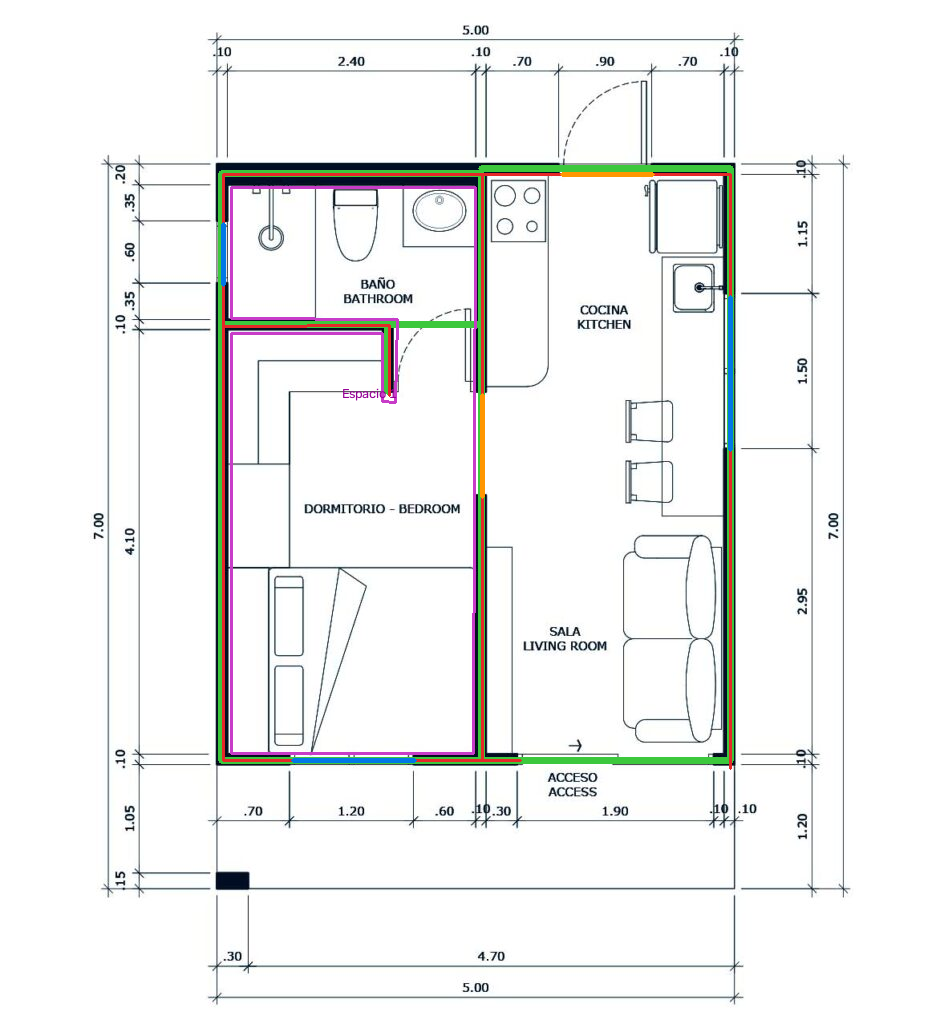
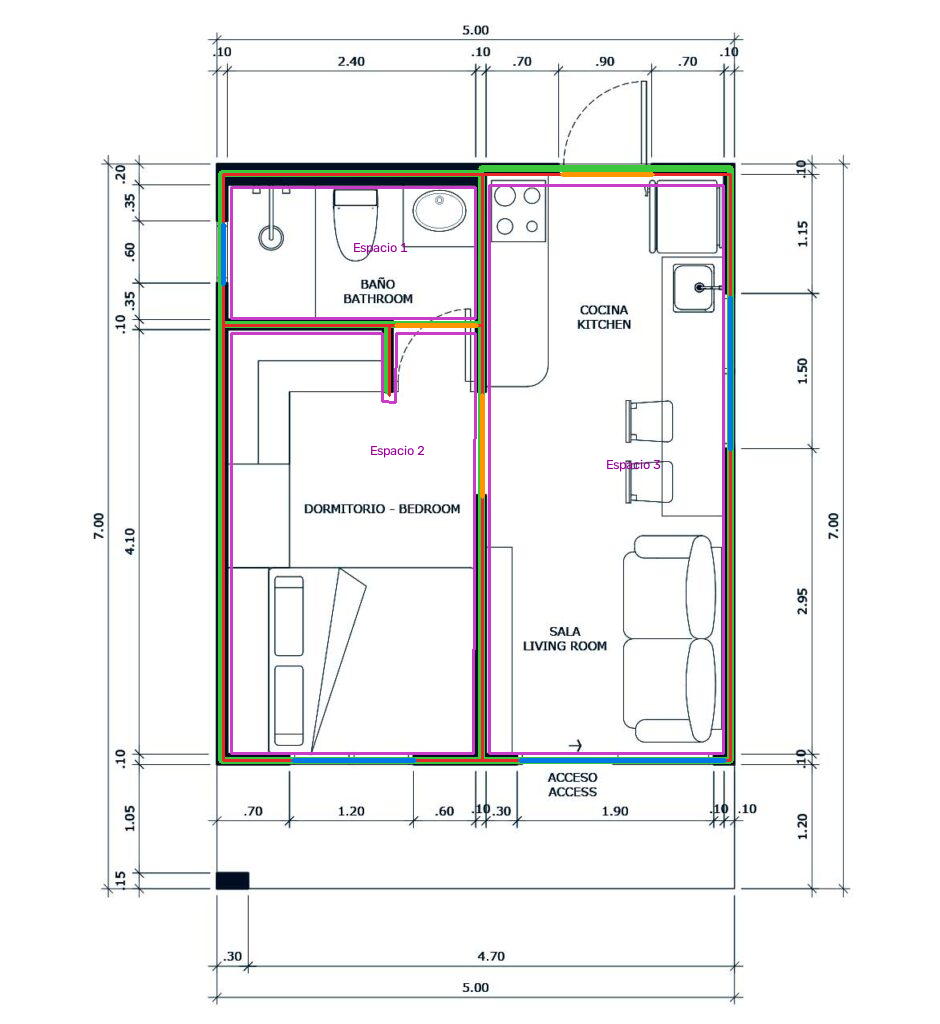
feat(detección): puertas entre tabique y muro transversal; escala de cotas al clásico
- bridge_end_gaps: un hueco desde el extremo de un muro hasta un muro transversal
  se vuelve abertura solo con evidencia en la tinta fina (arco u hoja de puerta
  de hasta 1,25 m, o línea continua de ventana/corrediza); cierra ambientes
- La CV clásica recibe la escala leída de las cotas (scale_hint) en vez de
  estimarla por el grosor: los umbrales en metros dejan de fallar
- casa1: muros F1 0,96 → 1,00; ambientes 1/3 → 3/3 (IoU 0,95); aberturas 5/7 → 7/7

diff --git a/backend/src/plano3d/infrastructure/cv/stages/openings.py b/backend/src/plano3d/infrastructure/cv/stages/openings.py
@@ -150,15 +150,176 @@ def merge_openings(segments: list[Segment], t: float, mpp: float, ink: Img) -> l
     return result
 
 
+def _ink_near(ink: Img, x: float, y: float, r: int = 2) -> bool:
+    h, w = ink.shape[:2]
+    xi, yi = round(x), round(y)
+    if not (0 <= xi < w and 0 <= yi < h):
+        return False
+    return bool(ink[max(0, yi - r) : yi + r + 1, max(0, xi - r) : xi + r + 1].any())
+
+
+def door_swing_evidence(
+    ink: Img, hinge: tuple[float, float], u: tuple[float, float], width: float
+) -> float:
+    """Cobertura (0..1) del arco de giro o de la hoja de una puerta con bisagra en ``hinge``.
+
+    ``u`` apunta de la bisagra hacia la otra jamba. La hoja abierta queda perpendicular al
+    muro (a uno u otro lado) y el arco une su punta con la otra jamba: se muestrean ambos y
+    se devuelve la mejor cobertura. Los arcos punteados de muchos planos dan ~0,4-0,6.
+    """
+    best = 0.0
+    for side in (1.0, -1.0):
+        n = (-u[1] * side, u[0] * side)
+        arc = 0
+        steps = 24
+        for k in range(1, steps):
+            a = math.pi / 2 * k / steps
+            px = hinge[0] + width * (u[0] * math.cos(a) + n[0] * math.sin(a))
+            py = hinge[1] + width * (u[1] * math.cos(a) + n[1] * math.sin(a))
+            arc += _ink_near(ink, px, py)
+        leaf = 0
+        for k in range(2, 12):
+            f = width * k / 12
+            leaf += _ink_near(ink, hinge[0] + n[0] * f, hinge[1] + n[1] * f, 1)
+        best = max(best, arc / (steps - 1), leaf / 10)
+    return best
+
+
+SWING_EVIDENCE = 0.4
+MAX_SWING_DOOR_M = 1.25
+WINDOW_LINE_EVIDENCE = 0.8
+
+
+def window_line_evidence(
+    ink: Img, a: tuple[float, float], b: tuple[float, float], thickness: float
+) -> float:
+    """Cobertura de la mejor línea fina CONTINUA paralela al muro dentro de su banda.
+
+    Una ventana (o una corrediza) se dibuja con líneas que cruzan todo el vano; los muebles
+    junto al muro (lavamanos, inodoro, mesones) dejan tinta en la banda pero no una línea
+    continua de jamba a jamba.
+    """
+    dx, dy = b[0] - a[0], b[1] - a[1]
+    length = math.hypot(dx, dy)
+    if length < 1:
+        return 0.0
+    ux, uy = dx / length, dy / length
+    nx, ny = -uy, ux
+    steps = max(8, int(length / 2))
+    best = 0.0
+    for k in range(-4, 5):
+        off = thickness * 0.4 * k / 4
+        hits = sum(
+            _ink_near(
+                ink,
+                a[0] + ux * length * s / steps + nx * off,
+                a[1] + uy * length * s / steps + ny * off,
+                1,
+            )
+            for s in range(1, steps)
+        )
+        best = max(best, hits / (steps - 1))
+    return best
+
+
+def bridge_end_gaps(segments: list[Segment], t: float, mpp: float, ink: Img) -> list[Segment]:
+    """Huecos entre el EXTREMO de un muro y otro muro (no colineal) más adelante en su eje.
+
+    ``merge_openings`` solo ve huecos entre tramos de la misma recta. Una puerta que va de
+    la punta de un tabique hasta un muro transversal (típica de baños y closets) quedaba
+    abierta y unía dos ambientes. Aquí se prolonga el muro hasta el otro y el tramo nuevo
+    es la abertura, pero solo si la tinta lo respalda: arco u hoja de puerta, o líneas
+    finas de ventana/corrediza en la banda. Sin evidencia no se inventa nada (una esquina
+    normal también tiene un muro "más adelante").
+    """
+    min_gap = MIN_OPENING_M / mpp
+    max_gap = MAX_OPENING_M / mpp
+    out = list(segments)
+    # la evidencia (arcos, hojas, líneas de ventana) es tinta FINA: se excluyen los muros,
+    # si no la "hoja" muestreada junto a un muro transversal cae dentro de él
+    walls = np.zeros_like(ink)
+    for w in out:
+        # rectángulo exacto del muro (sin puntas redondeadas): la hoja de una puerta suele ir
+        # pegada a la cara del muro y no debe quedar tapada
+        dx, dy = w.direction
+        h = w.thickness / 2
+        quad = np.array(
+            [
+                (w.x1 - dy * h, w.y1 + dx * h),
+                (w.x2 - dy * h, w.y2 + dx * h),
+                (w.x2 + dy * h, w.y2 - dx * h),
+                (w.x1 + dy * h, w.y1 - dx * h),
+            ]
+        )
+        cv2.fillPoly(walls, [np.round(quad).astype(np.int32)], 255)
+    thin = cv2.bitwise_and(ink, cv2.bitwise_not(walls))
+    for i, s in enumerate(out):
+        for end in (0, 1):
+            ex, ey = (s.x2, s.y2) if end else (s.x1, s.y1)
+            ux, uy = s.direction if end else (-s.direction[0], -s.direction[1])
+            best: tuple[float, float, int] | None = (
+                None  # (distancia libre, avance hasta el eje, j)
+            )
+            for j, o in enumerate(out):
+                if j == i or _angle_diff(o.angle, s.angle) < 30:
+                    continue
+                # intersección del rayo con el eje del otro muro
+                ox, oy = o.direction
+                den = ux * oy - uy * ox
+                if abs(den) < 1e-6:
+                    continue
+                rx, ry = o.x1 - ex, o.y1 - ey
+                along = (rx * oy - ry * ox) / den
+                tt = (rx * uy - ry * ux) / den
+                if along <= 0 or not (-o.thickness <= tt <= o.length + o.thickness):
+                    continue
+                free = along - o.thickness / 2
+                if free < 0.5 * t:  # ya lo toca: es una unión, no un hueco
+                    best = None
+                    break
+                if min_gap <= free <= max_gap and (best is None or free < best[0]):
+                    best = (free, along, j)
+            if best is None:
+                continue
+            free, along, _ = best
+            a = (ex, ey)
+            b = (ex + ux * free, ey + uy * free)
+            kind, conf = classify_gap(ink, a, b, s.thickness)
+            swing = max(
+                door_swing_evidence(thin, a, (ux, uy), free),
+                door_swing_evidence(thin, b, (-ux, -uy), free),
+            )
+            # una puerta batiente de una hoja no pasa de ~1,25 m; un arco más grande cruza
+            # cualquier línea del plano por casualidad
+            if swing >= SWING_EVIDENCE and kind == "door" and free * mpp <= MAX_SWING_DOOR_M:
+                conf = max(conf, 0.85)
+            elif window_line_evidence(thin, a, b, s.thickness) >= WINDOW_LINE_EVIDENCE:
+                kind, conf = "window", max(conf, 0.8)
+            else:
+                continue  # sin arco, hoja ni líneas de ventana: no se inventa la abertura
+            nx, ny = ex + ux * along, ey + uy * along
+            if end:
+                ops = [*s.openings, PxOpening(s.length, free, kind, conf)]
+                out[i] = Segment(s.x1, s.y1, nx, ny, s.thickness, ops, s.confidence)
+            else:
+                shift = along
+                ops = [
+                    PxOpening(o.offset + shift, o.width, o.kind, o.confidence) for o in s.openings
+                ]
+                ops.insert(0, PxOpening(along - free, free, kind, conf))
+                out[i] = Segment(nx, ny, s.x2, s.y2, s.thickness, ops, s.confidence)
+            s = out[i]
+    return out
+
+
 class OpeningsStage(PipelineStage[CVContext]):
     key = "openings"
     title = "Detección de puertas y ventanas"
 
     def run(self, ctx: CVContext) -> CVContext:
         ink = ctx.require(ctx.ink, "ink")
-        ctx.segments = merge_openings(
-            ctx.segments, ctx.wall_thickness_px, ctx.meters_per_pixel, ink
-        )
+        segs = merge_openings(ctx.segments, ctx.wall_thickness_px, ctx.meters_per_pixel, ink)
+        ctx.segments = bridge_end_gaps(segs, ctx.wall_thickness_px, ctx.meters_per_pixel, ink)
         return ctx
 
     def metrics(self, ctx: CVContext) -> dict[str, float]:

diff --git a/backend/tests/pipeline/test_end_gaps.py b/backend/tests/pipeline/test_end_gaps.py
@@ -1,0 +1,66 @@
+"""Puertas entre el extremo de un tabique y un muro transversal (bridge_end_gaps)."""
+
+import math
+
+import cv2
+import numpy as np
+
+from plano3d.infrastructure.cv.context import Segment
+from plano3d.infrastructure.cv.stages.openings import (
+    bridge_end_gaps,
+    door_swing_evidence,
+    window_line_evidence,
+)
+
+MPP = 0.01  # 1 px = 1 cm
+
+
+def _canvas() -> np.ndarray:
+    return np.zeros((400, 400), np.uint8)
+
+
+def _walls() -> list[Segment]:
+    # muro vertical en x=300; tabique horizontal en y=200 que termina 90 cm antes
+    return [Segment(300, 50, 300, 350, 12), Segment(50, 200, 204, 200, 12)]
+
+
+def test_puerta_con_arco_se_cierra_hasta_el_muro() -> None:
+    ink = _canvas()
+    cv2.line(ink, (50, 200), (204, 200), 255, 12)
+    cv2.line(ink, (300, 50), (300, 350), 255, 12)
+    # hoja abierta desde la bisagra (en el tabique) y arco hasta el otro muro
+    cv2.line(ink, (205, 200), (205, 290), 255, 1)
+    cv2.ellipse(ink, (205, 200), (90, 90), 0, 0, 90, 255, 1)
+    out = bridge_end_gaps(_walls(), 12, MPP, ink)
+    s = out[1]
+    assert math.isclose(s.x2, 300, abs_tol=1)
+    assert len(s.openings) == 1
+    o = s.openings[0]
+    assert o.kind == "door"
+    assert 80 <= o.width <= 95
+
+
+def test_sin_evidencia_no_inventa_aberturas() -> None:
+    ink = _canvas()
+    cv2.line(ink, (50, 200), (204, 200), 255, 12)
+    cv2.line(ink, (300, 50), (300, 350), 255, 12)
+    # un mueble junto al muro: tinta cerca, pero sin arco ni línea continua
+    cv2.rectangle(ink, (230, 185), (260, 215), 255, 1)
+    out = bridge_end_gaps(_walls(), 12, MPP, ink)
+    assert math.isclose(out[1].x2, 204, abs_tol=1)
+    assert out[1].openings == []
+
+
+def test_ventana_corrediza_por_linea_continua() -> None:
+    ink = _canvas()
+    cv2.line(ink, (204, 200), (294, 200), 255, 1)  # línea de la corrediza de jamba a jamba
+    assert window_line_evidence(ink, (204, 200), (294, 200), 12) >= 0.9
+    out = bridge_end_gaps(_walls(), 12, MPP, ink)
+    assert out[1].openings[0].kind == "window"
+
+
+def test_arco_de_puerta_tiene_evidencia_alta() -> None:
+    ink = _canvas()
+    cv2.ellipse(ink, (100, 100), (80, 80), 0, 0, 90, 255, 1)
+    assert door_swing_evidence(ink, (100, 100), (1.0, 0.0), 80) >= 0.8
+    assert door_swing_evidence(_canvas(), (100, 100), (1.0, 0.0), 80) == 0.0

diff --git a/backend/src/plano3d/infrastructure/cv/raster_vector_detector.py b/backend/src/plano3d/infrastructure/cv/raster_vector_detector.py
@@ -363,7 +363,15 @@ class HybridPhotoDetector(FloorPlanDetector):
         rooms = sum(len(lv.rooms) for lv in first.model.levels)
         if rooms >= MIN_ROOMS_TO_TRUST:
             return first
-        second = await self._classic.detect(request, progress)
+        # la clásica trabaja sobre la misma imagen rectificada: si raster-vector leyó la
+        # escala de las cotas, se la pasa (umbrales en metros correctos: vanos, rejilla...)
+        hint = request
+        if first.model.scale.source == "dimensions":
+            hint = replace(
+                request,
+                scale_hint=(first.model.scale.meters_per_pixel, first.model.scale.confidence),
+            )
+        second = await self._classic.detect(hint, progress)
         rooms2 = sum(len(lv.rooms) for lv in second.model.levels)
         if rooms2 <= rooms:
             return first

diff --git a/backend/src/plano3d/infrastructure/cv/stages/scale.py b/backend/src/plano3d/infrastructure/cv/stages/scale.py
@@ -40,7 +40,10 @@ class ScaleStage(PipelineStage[CVContext]):
     title = "Estimación de escala"
 
     def run(self, ctx: CVContext) -> CVContext:
-        ctx.meters_per_pixel, ctx.scale_confidence = estimate_scale(ctx.segments)
+        if ctx.scale_hint is not None:
+            ctx.meters_per_pixel, ctx.scale_confidence = ctx.scale_hint
+        else:
+            ctx.meters_per_pixel, ctx.scale_confidence = estimate_scale(ctx.segments)
         return ctx
 
     def metrics(self, ctx: CVContext) -> dict[str, float]:

diff --git a/backend/src/plano3d/infrastructure/cv/context.py b/backend/src/plano3d/infrastructure/cv/context.py
@@ -71,6 +71,8 @@ class CVContext:
     content_type: str
     #: esquinas del papel normalizadas a [0,1] (TL, TR, BR, BL), elegidas por el usuario
     corners: Sequence[tuple[float, float]] | None = None
+    #: (m/px, confianza) conocidos de antemano (ver ``DetectionRequest.scale_hint``)
+    scale_hint: tuple[float, float] | None = None
 
     original: Img | None = None
     rectified: Img | None = None

diff --git a/backend/src/plano3d/application/ports/__init__.py b/backend/src/plano3d/application/ports/__init__.py
@@ -39,6 +39,9 @@ class DetectionRequest:
     image_bytes: bytes
     content_type: str
     corners: Sequence[tuple[float, float]] | None = None
+    #: (m/px de la imagen rectificada, confianza) ya conocidos por otro detector, p. ej. de
+    #: las cotas leídas: el detector la usa en vez de estimar la suya
+    scale_hint: tuple[float, float] | None = None
 
 
 @dataclass

diff --git a/backend/src/plano3d/infrastructure/cv/classic_cv_detector.py b/backend/src/plano3d/infrastructure/cv/classic_cv_detector.py
@@ -74,6 +74,7 @@ class ClassicCVDetector(FloorPlanDetector):
             image_bytes=request.image_bytes,
             content_type=request.content_type,
             corners=request.corners,
+            scale_hint=request.scale_hint,
         )
         ctx = await pipeline.run(ctx, request.project_id, progress)
         model = ctx.require(ctx.model, "model")

diff --git a/calidad/bitacora.md b/calidad/bitacora.md
@@ -7,3 +7,9 @@ Cada entrada: cambio y métricas resultantes (scripts/eval_real.py).
 ## casa1  (raster-vector)  escala dimensions error +0.4%  niveles 1/1
 - Planta 1: muros F1 0.96 (P 1.00 R 0.92, extremos 0.53, 7/8) · aberturas P 1.00 R 0.71 (5/7) · ambientes 1/3 IoU 0.33 nombres 0/3
 - falta: Planta 1: aberturas, Planta 1: ambientes, Planta 1: nombres
+
+### 2026-10-06 23:56 — Puertas entre extremo de tabique y muro transversal (con evidencia de arco/hoja/línea) y escala de cotas para la CV clásica
+
+## casa1  (raster-vector)  escala dimensions error +0.4%  niveles 1/1
+- Planta 1: muros F1 1.00 (P 1.00 R 1.00, extremos 0.80, 7/8) · aberturas P 0.86 R 0.86 (7/7) · ambientes 3/3 IoU 0.95 nombres 0/3
+- falta: Planta 1: aberturas, Planta 1: nombres
